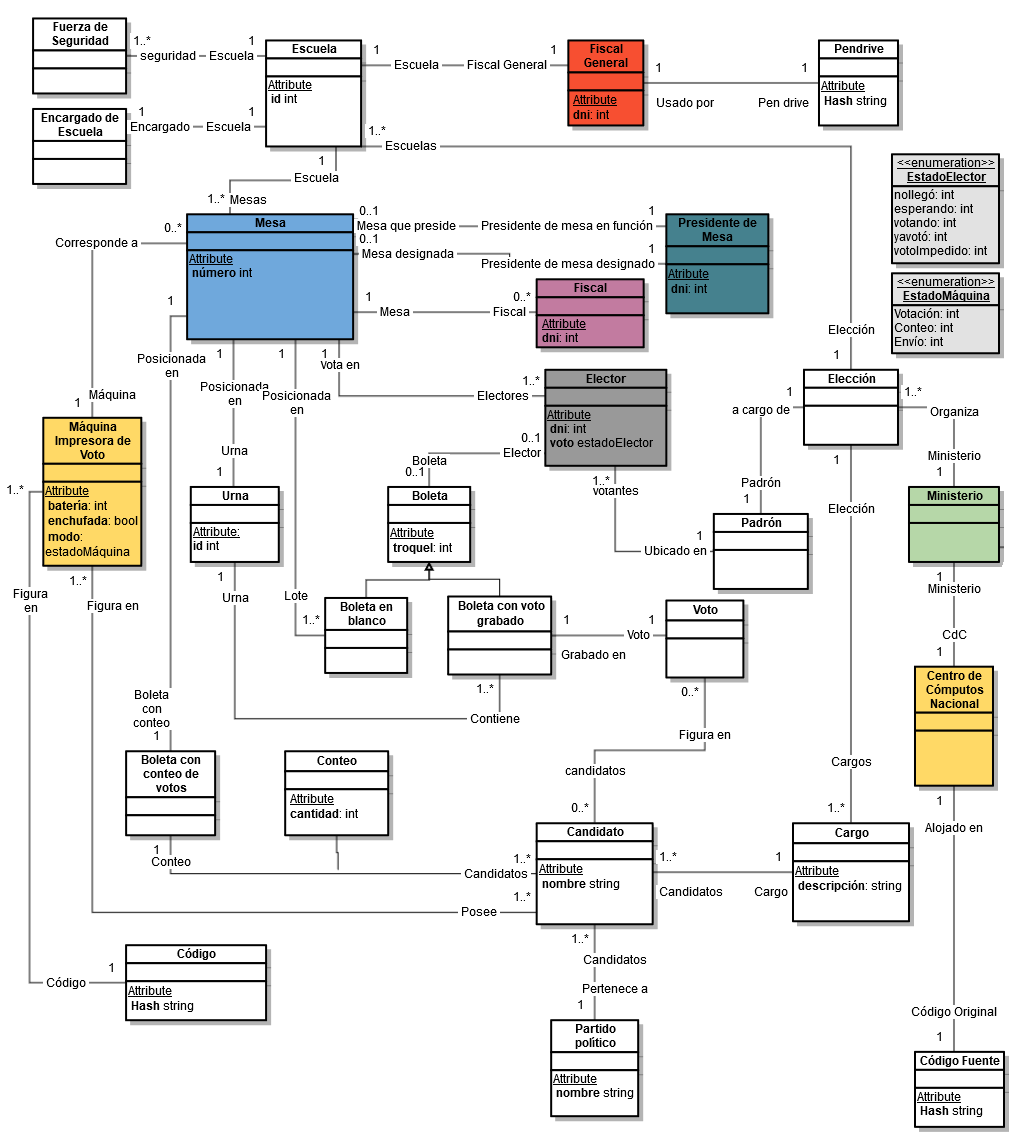
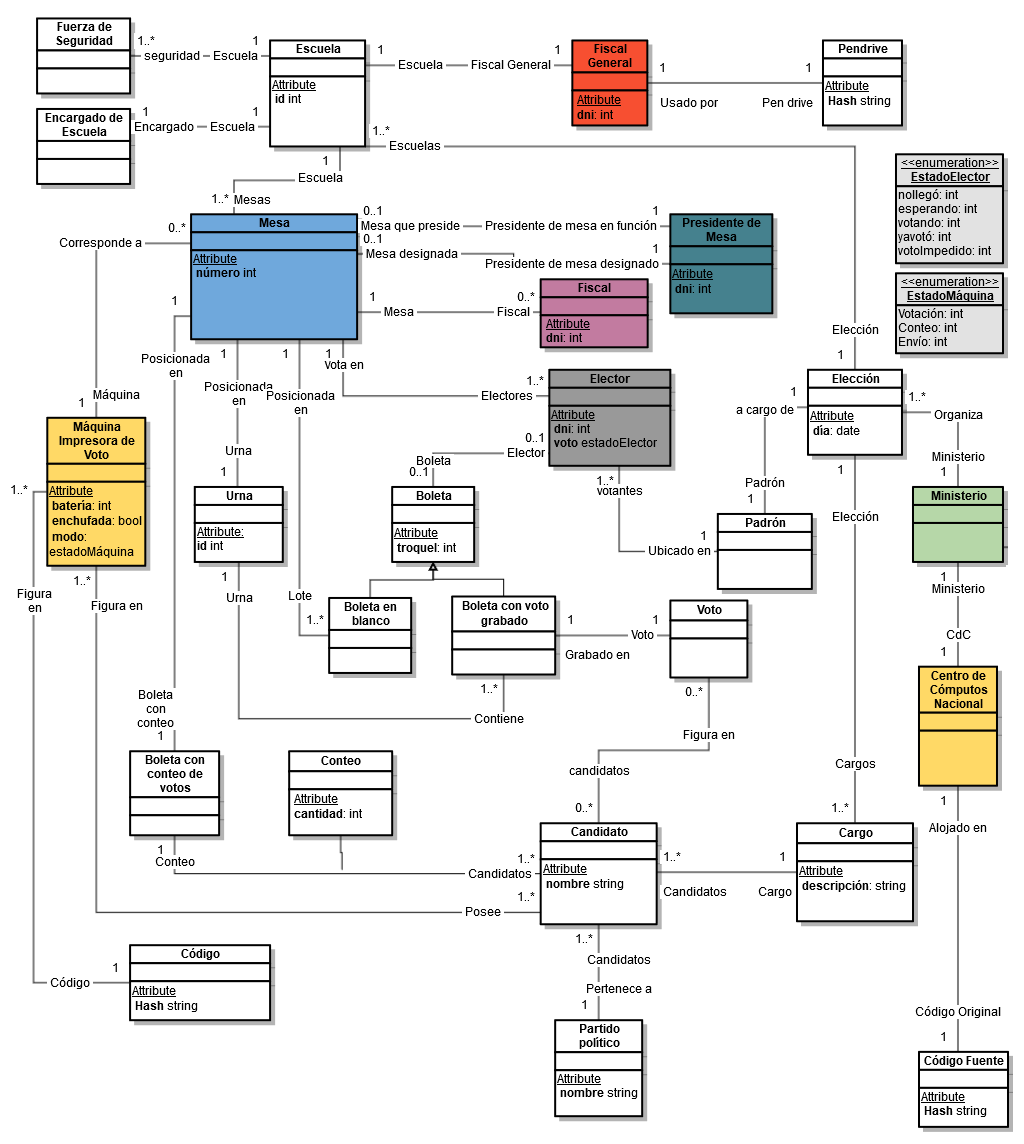
casi esta el ocl, falta poco :(

diff --git a/tp2/Informe/modeloConceptual.tex b/tp2/Informe/modeloConceptual.tex
@@ -76,6 +76,17 @@ forAll(car | car.Candidatos \rightarrow \\
 forAll(can_1 | self.BoletaConConteo.Candidatos \rightarrow \\
 Exists(can_2| can_1.nombre == can_2.nombre $ AND $car.descripcion==can_2.cargo.descripcion)))$
 
+\item \textbf{\textcolor{red}{El hash del código es el mismo del hash del código fuente. }  }
+\item \textbf{\textcolor{red}{El hash del código es el mismo del hash de todos los pendrives de los fiscales.}}
+
+
+\item \textbf{Si alg\'un elector vot\'o, debe haber votado el presidente mesa antes.}
+
+$self.Electores \rightarrow \\
+Exists (e | e.dni <> self.PresidenteDeMesaEnFuncion.dni $ AND $e.voto==yavoto)$ IMPLIES $\\
+self.Electores \rightarrow select(v | v.dni==self.PresidenteDeMesaEnFuncion.dni) \rightarrow \\
+forAll(p | p.voto==yavoto)$
+
 \end{enumerate}
 
 \subsubsection*{Boleta}
@@ -103,7 +114,7 @@ self.PosicionadaEn.numero == self.Elector.VotaEn.numero$
 $self.IsKindOf(BoletaConVotoGrabado)? $  IMPLIES  $\\
 self.Urna.PosicionadaEn.numero == self.Elector.VotaEn.numero$
 
-\item \textcolor{red}{Los votos de las boletas son de candidatos de la eleccion q vota el elector. Aclarar en el informe que esto hace q los votos contabilizados en la boleta de conteo tambien son de la misma eleccion ya q las boletas entre si son consistentes y no hace falta aclararlo extra por ocl}
+\item \textcolor{red}{Los votos de las boletas son de candidatos de la eleccion q vota el elector. PONERLE A LA CLASE ELECCION UNA FECHA. Aclarar en el informe que esto hace q los votos contabilizados en la boleta de conteo tambien son de la misma eleccion ya q las boletas entre si son consistentes y no hace falta aclararlo extra por ocl}
 
 \end{enumerate}
 
@@ -141,9 +152,12 @@ inv}
 \begin{enumerate}
 \item \textbf{No tiene dos candidatos con el mismo cargo.}
 
-$self.Candidatos  \rightarrow forAll(c_1, c_2 | )$
+$self.Candidatos  \rightarrow forAll(c_1, c_2 | c_1.cargo.descripcion <> c_2.cargo.descripcion)$
 
 \item \textbf{No tiene dos candidatos con el mismo nombre.}
+
+$self.Candidatos  \rightarrow forAll(c_1, c_2 | c_1.nombre <> c_2.nombre)$
+
 \end{enumerate}
 
 \subsubsection*{Urna}
@@ -152,9 +166,14 @@ $self.Candidatos  \rightarrow forAll(c_1, c_2 | )$
 inv}
 
 \begin{enumerate}
-\item \textbf{Las boletas con voto grabado de la urna son sólo de votantes de la mesa que figura la urna.}
+
 \item \textbf{En una misma urna no hay dos boletas con el mismo elector.}    
+
+$self.Contiene \rightarrow forAll(b_1, b_2 | b_1.Elector.dni<>b_2.Elector.dni)$
+
 \item \textbf{Los id de las urnas son únicos.}
+
+$Urna.AllInstances() \rightarrow forAll(u_1, u_2|u_1.id<>u_2.id)$
 \end{enumerate}
 
 \subsubsection*{Escuela}
@@ -163,9 +182,10 @@ inv}
 inv}
 
 \begin{enumerate}
-\item \textbf{Los id de las mesas son únicos.}
-\item \textbf{No puede haber un fiscal general y un fiscal con el mismo dni.}
-\item \textbf{No puede haber un fiscal general y un presidente de mesa con el mismo dni.}
+\item \textbf{Los n\'umeros de las mesas son únicos.}
+
+$Mesa.AllInstances() \rightarrow forAll(m_1, m_2|m_1.numero<>m_2.numero)$
+
 \end{enumerate}
 
 \subsubsection*{M\'aquina Impresora de Voto}
@@ -174,7 +194,7 @@ inv}
 inv}
 
 \begin{enumerate}
-\item \textbf{Los candidatos de todas las máquinas son los mismos.}
+\item \textbf{\textcolor{red}{Los candidatos de las m\'aquinas corresponden a los candidatos de la elecci\'on de la mesa en que est\'an posicionadas.}}
 
 \end{enumerate}
 
@@ -185,11 +205,33 @@ inv}
 
 \begin{enumerate}
 \item \textbf{Los dni de los electores son únicos.}
-\item \textbf{El elector puede no tener ninguna boleta, tener una vacía o tener una con voto.}
-\item \textbf{No puede haber un elector y una persona que no figura en el padrón con el mismo dni.}
+
+$Elector.AllInstances() \rightarrow forAll(e_1, e_2 | e_1.dni <> e_2.dni)$
+
 \item \textbf{Si el elector no llegó, está esperando o no lo dejaron votar no tiene boleta.}
-\item \textbf{Si el elector está votando tiene una boleta en blanco.}
-\item \textbf{Si el elector ya votó tiene una boleta con voto grabado.}
+
+$self.voto==nollego $ OR $self.voto==yavoto$ OR $self.voto==votoImpedido$ IMPLIES $\\
+self.Boleta \rightarrow Size() ==0$
+
+ AND 
+ 
+$self.Boleta \rightarrow Size() ==0$ IMPLIES $\\
+self.voto==nollego $ OR $self.voto==yavoto$ OR $self.voto==votoImpedido$
+
+\item \textbf{Si el elector está votando, tiene una boleta en blanco.}
+
+$self.Boleta \rightarrow Size() ==1$ IMPLIES $\\
+(self.Boleta.IsKindOf?(BoletaEnBlanco)$ IMPLIES $self.voto==votando$ AND
+
+$self.voto==votando$ IMPLIES $self.Boleta.IsKindOf?(BoletaEnBlanco))$
+
+\item \textbf{Si el elector ya votó, tiene una boleta con voto grabado.}
+
+$self.Boleta \rightarrow Size() ==1$ IMPLIES $\\
+(self.Boleta.IsKindOf?(BoletaConVotoGrabado)$ IMPLIES $self.voto==yavoto$ AND
+
+$self.voto==yavoto$ IMPLIES $self.Boleta.IsKindOf?(BoletaConVotoGrabado))$
+
 \end{enumerate}
 
 \subsubsection*{Partido Pol\'itico}
@@ -198,7 +240,13 @@ inv}
 inv}
 
 \begin{enumerate}
-\item \textbf{No hay dos partidos políticos con ningún candidato en común.}
+\item \textbf{No hay dos partidos políticos con algún candidato en común.}
+
+$PartidoPolitico.AllInstances() \rightarrow \\
+forAll(p_1, p_2 | p_1.candidatos \rightarrow \\
+forAll(c_1 | p_2.candidatos \rightarrow \\
+forAll(c_2 | c_1.nombre <> c_2.nombre)))$
+
 \end{enumerate}
 
 \subsubsection*{Centro de C\'omputos}
@@ -208,17 +256,10 @@ inv}
 
 \begin{enumerate}
 \item \textbf{Hay uno solo.}
+
+$CentroDeComputos.AllInstances() \rightarrow size()==1$
 \end{enumerate}
 
-\subsubsection*{C\'odigo}
-
-\textit{context C\'odigo
-inv}
-
-\begin{enumerate}
-\item \textbf{El hash del código es el mismo del hash del código fuente. }  
-\item \textbf{El hash del código es el mismo del hash de todos los pendrives de los fiscales.}   
-\end{enumerate}  
 
 \subsubsection*{Ministerio}
 
@@ -227,6 +268,9 @@ inv}
 
 \begin{enumerate}
 \item \textbf{Hay un solo ministerio.}
+
+$Ministerio.AllInstances() \rightarrow size()==1$
+
 \end{enumerate}
 
 \subsubsection*{Presidente de Mesa}
@@ -235,10 +279,21 @@ inv}
 inv}
 
 \begin{enumerate}
-\item \textbf{Si el presidente de mesa del ministerio está presente, no hay presidente ad hoc.}
-\item \textbf{Si la mesa tiene un solo presidente de mesa, tiene que ser el de Ministerio.}
-\item \textbf{Si hay dos presidentes, el del ministerio debe estar ausente.}
-\item \textbf{Si alguien voto, debe haber votado el presidente mesa antes (El Ad hoc si la mesa tiene dos presidentes, o el del ministerio si tiene uno solo).}
+
+
+\item \textbf{No puede haber un fiscal general y un fiscal con el mismo dni.}
+
+$Fiscal.AllInstances \rightarrow \\
+ forAll(f | FiscalGeneral.AllInstances \rightarrow forAll(fg | fg.dni <f.dni>))$
+
+\item \textbf{No puede haber un fiscal general y un presidente de mesa con el mismo dni.}
+
+$PresidenteDeMesaDesignado.AllInstances \rightarrow \\
+ forAll(pd | FiscalGeneral.AllInstances \rightarrow forAll(f_1 | f_1.dni <pd.dni>)) \\ $
+ AND $\\
+ PresidenteDeMesaEnFuncion.AllInstances \rightarrow \\
+ forAll(pf | FiscalGeneral.AllInstances \rightarrow forAll(f_2 | f_2.dni <pf.dni>))$
+ 
 \end{enumerate}
 
 \subsubsection*{Candidato}
@@ -247,5 +302,8 @@ inv}
 inv}
 
 \begin{enumerate}
-\item \textbf{Los id de los candidatos son únicos.}
+\item \textbf{Los nombres de los candidatos son únicos.}
+
+$Candidato.AllInstances() \rightarrow forAll(c_1, c_2 | c_1.nombre <>c_2.nombre)$
+
 \end{enumerate}
